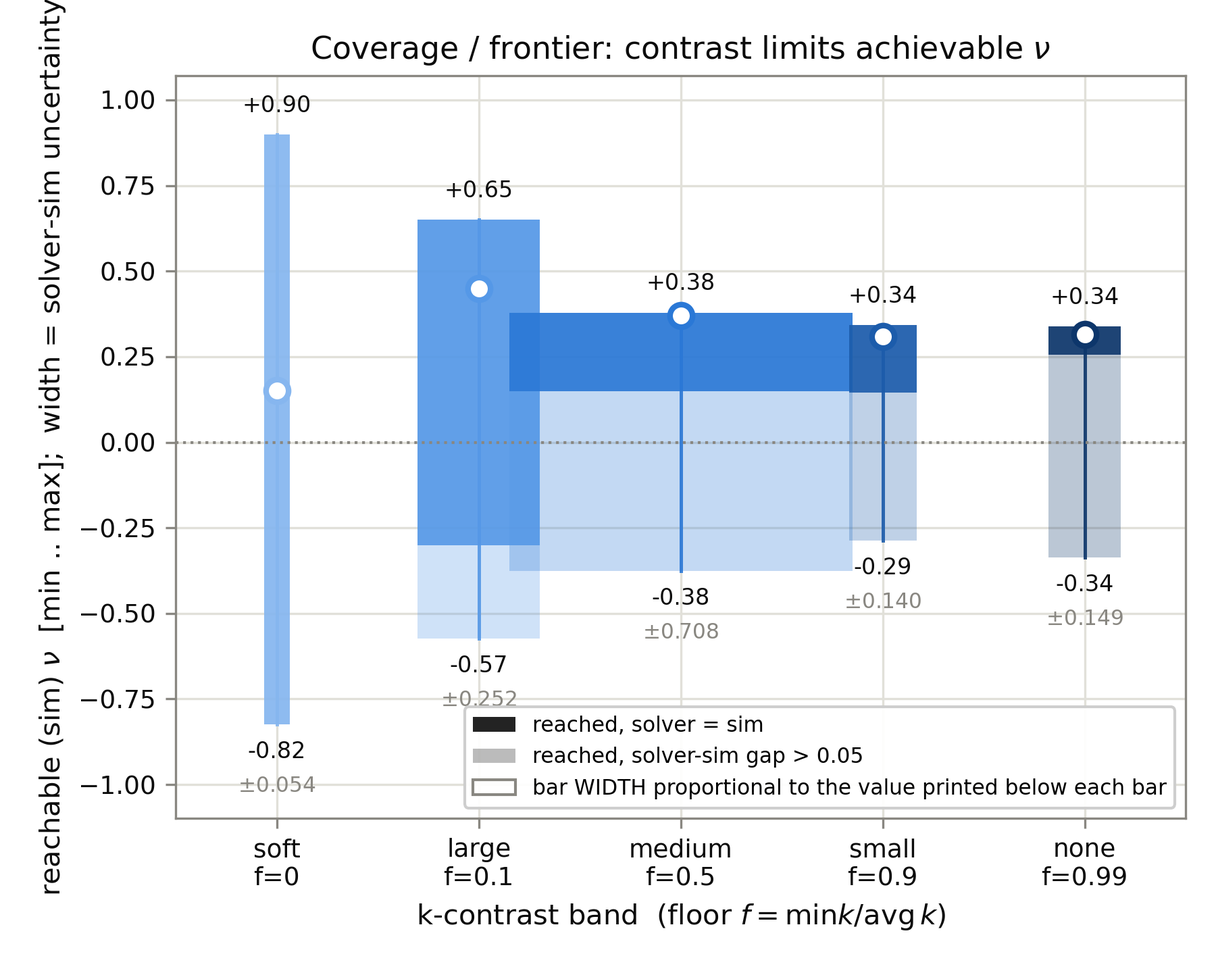
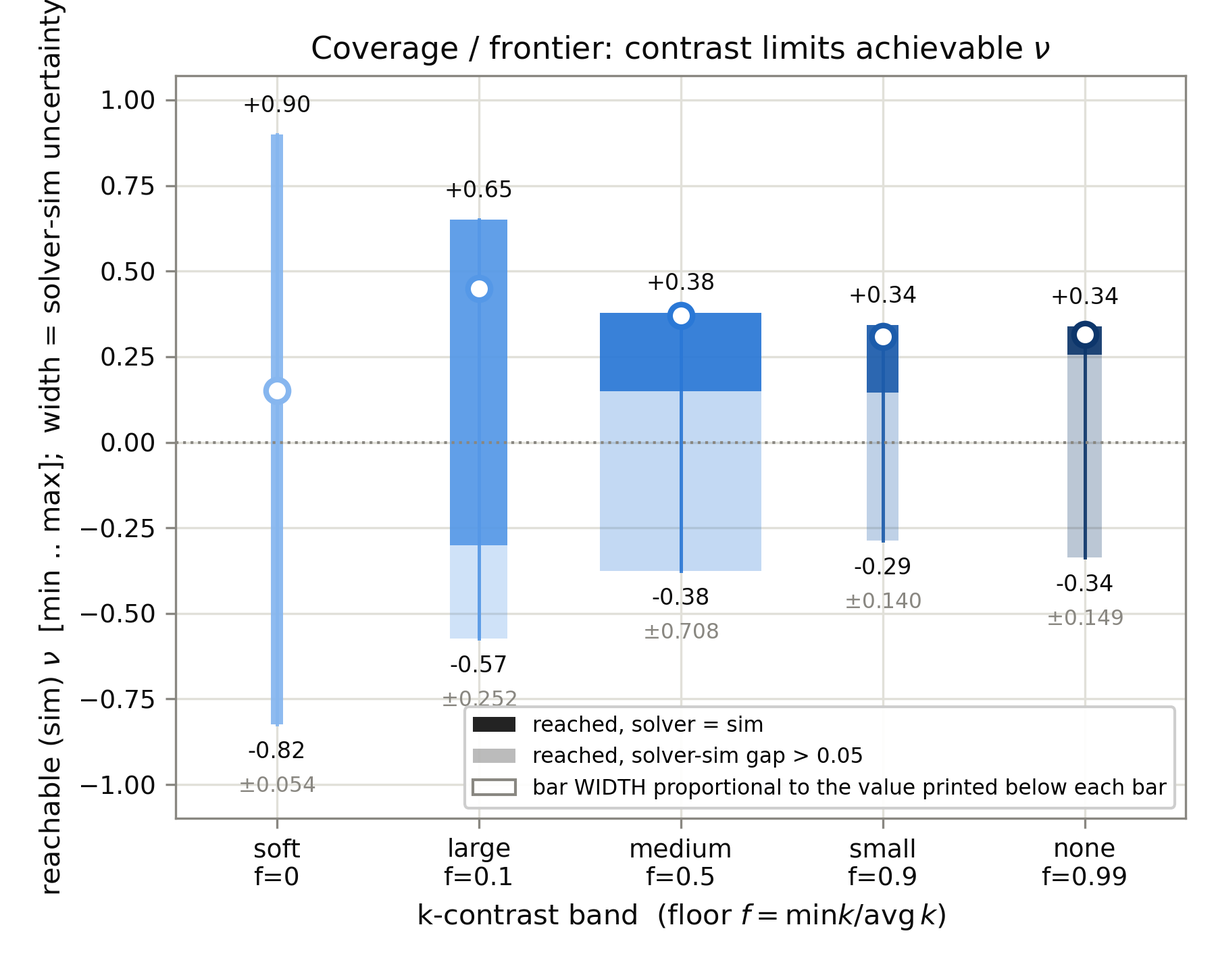
Session handoff: todo re-ordered around the GNN; audit mislabel #3 fixed
NEXT_SESSION.md rewritten as the master handoff, ordered by what must be true
before training M2 is worth doing:
  1. B-1 overnight -- THE BLOCKER. A solver that can differ from the sim by
     1.18e-02 on ~1 run in 21 labels the training set with noise of that size.
     Caught again today; the cheap harness does NOT reproduce it (new `threads`
     mode, 0/360 hits) and threading is not the direct cause (1.5e-33). Plan:
     full-suite loop overnight, paired 1-thread vs default, incremental writes.
  2. M2's two decisions (user's): what M2 IS -- CLAUDE.md says GNN edit-policy
     in four places, m2/model.py says forward surrogate -- and what it trains
     against (C6 vs nu(theta),E(theta); loss; validation on held-out FAMILIES
     against the sim, which M2.md records the July validation got wrong).
  3. M2 rebuild + retrain. Labels verified stale; dataset dirs deliberately absent.
  4. Deferred by decision: the tiling discrepancy (NO run-time guard), goal2's
     range, A-8 / A-17 tail / A-18, FD #2 redesign.

Also recorded: the session's corrections, the asymmetric-lever result (contrast
raises the ceiling, positions supply the floor), and the open tiling discrepancy
with the decisions taken around it -- tilings are legitimate networks, honouring
k0 is NOT the fix (soft chords carry the face's shear), a centre-vertex fan is a
better REPRESENTATION but not automatically a better network.

Honesty note carried into the handoff: the headline "filtering on trustworthy
[…]

diff --git a/Phase 5/verifications/plot_goal1.py b/Phase 5/verifications/plot_goal1.py
@@ -136,18 +136,25 @@ def fig_achieved(rows):
 # |nu_solver - nu_sim|, so a razor-thin bar means the two code paths agree and a fat bar means they
 # do not. Proportional (no offset) on purpose -- an offset would make "agrees exactly" look uncertain.
 # Median disagreement is 0.0000 in every band, which is why the MAX is the informative statistic.
-W_PER_NU = 2.4          # x-axis units per unit of |dnu|; band slots are 1.0 apart
-W_KEY = 0.10            # the reference width drawn in the legend, in |dnu|
+W_MAX_SLOT = 0.80       # the widest bar occupies this fraction of a band slot (slots are 1.0 apart)
+# The scale is ADAPTIVE, not a fixed units-per-dnu: it was hardcoded at 2.4, calibrated when the
+# worst band uncertainty was 0.311, and when the repaired position budget pushed that to 0.708 the
+# medium bar became 1.7 slots wide and overlapped its neighbours. Proportionality (a bar twice as
+# wide means twice the disagreement) is preserved within a figure; the absolute value is printed
+# under each bar, so nothing quantitative depends on the scale factor.
 
 
 def _frontier_axis(ax):
     rows = load_rows(trustworthy_only=False)
+    unc_max = max((max(abs(r['nu_sim_full'] - r['nu_solver_full'])
+                       for r in rows if r['band'] == bn)
+                   for bn in BAND_ORDER if any(r['band'] == bn for r in rows)), default=1.0) or 1.0
     for i, bn in enumerate(BAND_ORDER):
         g = [r for r in rows if r['band'] == bn]
         if not g:
             continue
         unc = max(abs(r['nu_sim_full'] - r['nu_solver_full']) for r in g)
-        w = W_PER_NU * unc
+        w = W_MAX_SLOT * unc / unc_max
         # Pale = full reach INCLUDING runs the honesty gate rejected; solid = trustworthy only.
         # Showing only the solid range is what made G1.2 read as "never reaches negative nu".
         nus_all = [r['nu_sim_full'] for r in g]

diff --git a/documentation/NEXT_SESSION.md b/documentation/NEXT_SESSION.md
@@ -1,168 +1,179 @@
 # NEXT SESSION — start here
 
-**Rewritten 2026-08-22.** Repo state: working tree clean, everything pushed through `612e8cf` on
-`claude/funny-davinci-H4pdS`, all five gates green. Read `CLAUDE.md` §1–3, this file,
-`documentation/VERIFICATION_CAMPAIGN.md` (**the index of what has already been measured — read it
-before proposing any new measurement**), then `AUDIT_2026-08.md` §6 STATUS for the audit backlog.
+**Rewritten 2026-08-22 (end of session).** Working tree clean, everything pushed on
+`claude/funny-davinci-H4pdS`. Read `CLAUDE.md` §1–3, this file, and
+**`documentation/VERIFICATION_CAMPAIGN.md` — the index of what has already been measured. Read it
+before proposing any new measurement.** `AUDIT_2026-08.md` §6 STATUS holds the older backlog.
+
+> **The goal is the GNN.** Everything below is ordered by what has to be true before training M2 is
+> worth doing. Item 1 is the only real blocker; items 2–3 are decisions only the user can make.
 
 ---
 
-## What changed on 2026-08-21/22, and why it matters
+## THE TODO, in order
 
-The session began as a conformance sweep and turned into a correction, after the user objected on
-physical grounds that η-disorder alone reaches ν < 0, so a directed optimiser must at least match it.
-He was right, and three layers of reporting said otherwise.
+### 1. B-1 — the overnight run. THE BLOCKER.
+Solver nondeterminism. **Why it gates the GNN:** if the solver can differ from the independent sim
+by 1.18e-02 on ~1 run in 21, a training set labelled by that solver carries unlabelled noise of the
+same size, and no amount of model capacity fixes that. M2's labels are only as good as this.
 
-**1. "Untrustworthy" is NOT "unreal" — the single most important thing to carry forward.**
-`trustworthy` is `gap = max_θ|Δν(θ)|/(|ν_sim(θ)|+0.05) + max_θ|ΔE(θ)|/|E_sim(θ)| < 0.05`: a
-**relative, PER-ANGLE agreement test between two code paths**, not a physicality verdict. Because the
-denominator carries a 0.05 floor it silently changes meaning — a ~5% relative test where |ν| ≫ 0.05,
-but an absolute |Δν| ≤ 0.0025 test where |ν| ≪ 0.05, i.e. ~20× stricter near ν = 0. Tabulating only
-gap-passing rows therefore **censors the extremes**, which is exactly what an inverse-design
-experiment exists to map. It made `g1_2` read as "distortion never reaches auxetic ν" when 49 designs
-reach ν < 0 with **49/49 sign agreement between the two codes**.
+**Caught again 2026-08-22** during a routine gate run: `test_homogenization`, regular lattice
+(φ=ψ=1, η=0, seed 0), **1.18e-02 against a 1.6e-12 baseline**, then 8/8 PASS on repeat in isolation.
+Evidence in `Phase 3/verifications/b1_dumps/` (harness auto-dump
+`b1_anomaly_20260822T142234Z_eta0.0_s0.json` + the suite log).
 
-**2. The selection rule was discarding good designs.** `run_g1_2.design_one` kept the
-closest-to-target *trustworthy* candidate and fell back to the lowest-gap one — which systematically
-preferred timid designs. It now scores `err + 0.5·gap` (`SCORE_LAMBDA`), the gap a **cost, not a
-veto**. Measured cause (`g1_2_triangular_start_probe.py`, 36 runs): the controlling variable is the
-SPSA **step size**. At `a = 0.15` the search barely moves and returns a *target-independent* endpoint
-— identical for ν* = −0.10 and −0.30, which is exactly the saved-data signature of one geometry
-written for all five negative targets; at `a = 0.25` it reaches ν = −0.134 with a larger gap, and the
-old rule threw that away.
+**Ruled out today:**
+- **The cheap harness does not reproduce it.** New `b1_reproduce.py threads N` mode: suite context
+  built once, then 360 probes across 1- and 4-thread arms → **0 hits in both**, every probe at
+  exactly 1.00× baseline. ~17 hits were expected at the nominal rate. So replaying the 13 preceding
+  tests is **not sufficient context** — consistent with "clusters in time with a persistent state
+  transition", and it means the "~1 in 21" refers to something other than these probes.
+- **Thread count is not the direct cause.** Threading *does* make the forward path nondeterministic
+  (40 calls on the regular lattice: 2 distinct bit patterns at 4 threads, 1 bit-exact at 1 thread —
+  isolated for the first time), but at **1.5e-33**, thirty orders below the failure, consistent with
+  the 1–2 ulp envelope already on record.
 
-**3. g1_2 re-run under the new rule: ALL TEN topologies reach auxetic ν.** `triangular` went
-**+0.038 → −0.217**, `flipped_tri_f8` −0.057 → −0.272, `tetrakis` −0.067 → −0.226,
-`rotating_squares` −0.259 → −0.398. Deepest overall −0.436 (honeycomb, solver −0.488) at k ≡ 1.
-Trustworthy count unchanged at 45/110 — the fix recovered *reach*, not agreement.
+**The plan (agreed):** an overnight loop of the **FULL suite** (`Phase 3/test_inverse_design.py`,
+~12 min/run), **paired 1-thread vs default** so the thread question is answered at the same time.
+~40 runs/night, ~2 expected events. **Write each run's verdict incrementally** — a suspend at hour
+six must not cost the night (one g1_2 design already recorded 18266 s from a machine suspend despite
+`_keep_awake`).
 
-**4. `positions.quality_floor` is ON at 1e-3**, set from the A/B its old default deferred to
-(`ab_quality_floor.py`, 40 runs). It is a **degeneracy guard only**: 1e-3 is free, 0.03+ doubles
-trustworthiness while multiplying median error ×17 and would destroy the ν = −0.436 design.
-**Do not raise it to buy agreement — that is the veto mistake one level down.**
+Useful control that fell out: `torch.set_num_threads(1)` makes the forward path bit-reproducible, so
+"noise or real state change?" becomes decidable.
+
+### 2. M2 — two decisions, then it is unblocked
+- **What M2 IS.** `CLAUDE.md` calls it a GNN **edit-policy** in four places (§1 twice, the
+  entry-point line, §2's table); `Phase 5/m2/model.py` says **forward surrogate**. A straight
+  docs-vs-code contradiction, deliberately left for the user. It decides the dataset, the loss and
+  the success criterion, so it comes first.
+- **What it trains against.** Graph → C6 (6 numbers) as now, or graph → ν(θ),E(θ) on the 37-angle
+  grid; loss on raw C6 / normalised components / derived ν,E; success measured against the
+  **independent sim on held-out topology FAMILIES**, which `M2.md` records the July validation got
+  wrong (random split against the solver labels the model trained on).
+
+### 3. M2 — rebuild, retrain, validate
+Labels are **verified stale** (37/41 drift, worst |Δν| = 1.73), so `checkpoint.pt` is unverified.
+`Phase 5/dataset/` and `m2/data/` are deliberately ABSENT so nothing retrains on the old labels; the
+July set is archived at `validation_2026-08/attic/m2_dataset_2026-07_pre-A0/`. Record the smoke-train
+metrics this time (`M2.md` still has `<FILL>`).
+
+**Today's work substantially improves what a dataset must cover** — see
+`Phase 5/results/reach_summary/REACH_SUMMARY.md` for the reachable envelope on one axis.
+
+### 4. Deferred, deliberately
+- **The tiling discrepancy — LEFT AS IS, no run-time guard** (user's call, 2026-08-22). See below.
+- goal2 over its full target range — its target set has never been scoped (directional/full-tensor).
+- `A-8` open-boundary suite · `A-17` tail (centre-vertex re-representation) · `A-18` analytic-oracle
+  generalisation · TODO 2.6 `open_stretch` guard.
+- **FD #2 needs redesign, not re-aiming** — both proposed targets measured insufficient (below).
+
+---
+
+## What changed on 2026-08-21/22
+
+**1. "Untrustworthy" is NOT "unreal".** `trustworthy` is
+`gap = max_θ|Δν(θ)|/(|ν_sim(θ)|+0.05) + max_θ|ΔE(θ)|/|E_sim(θ)| < 0.05` — a **relative, PER-ANGLE
+agreement test between two code paths**, not a physicality verdict. The +0.05 floor makes it a ~5%
+relative test where |ν| ≫ 0.05 but an absolute |Δν| ≤ 0.0025 where |ν| ≪ 0.05, ~20× stricter near
+zero. Tabulating only gap-passing rows **censors the extremes**.
+
+> **Not a new observation.** `AUDIT_2026-08.md` already recorded for `g1_2_freed` that the optimiser
+> "claims ν down to −0.761 over all 110 runs" while the trustworthy subset gives [+0.100, +0.340].
+> Today added the *interpretation*: those designs are **49/49 sign-agreeing** between the two codes
+> (median bulk |Δν| = 0.073), so they are not "a near-mechanism regime the sim rejects" as the audit
+> concluded — they are designs both codes broadly agree about that fail a strict per-angle
+> tolerance. And the fix below.
+
+**2. Selection is SCORED, not vetoed** — in **both** `run_g1_2.design_one` and `designer.design()`:
+`err + 0.5·gap`, with PHYSICALITY still a veto (non-SPD / non-finite / |ν|≥ν_max is a statement about
+the network, audit A-5). `gap_tol` now only sets the reported `trustworthy` flag.
+Measured cause of the old rule's damage: the **SPSA step size**. At `a = 0.15` the search barely
+moves and returns a *target-independent* endpoint; at `a = 0.25` it reaches ν = −0.134 with a larger
+gap, and the veto discarded it.
+
+**3. g1_2 re-run: ALL TEN topologies reach auxetic ν.** `triangular` +0.038 → **−0.217**,
+`flipped_tri_f8` −0.057 → −0.272, `tetrakis` −0.067 → −0.226, `rotating_squares` −0.259 → −0.398.
+Deepest −0.436 (honeycomb, solver −0.488) at k ≡ 1. Trustworthy unchanged at 45/110 — the fix
+recovered *reach*, not agreement.
+
+**4. goal1: symmetric grid + repaired position budget → a conclusion overturned.** `NU_GRID` is now
+13 points over [−0.95, +0.95]; `design_iso` now passes `spsa_a = 0.25` instead of falling through to
+the library default 0.02 (travel per coordinate **0.202 → 2.53** lattice spacings, matching g1_2, at
+the same step count and runtime). Result: **every contrast band reaches ν < 0**, including f = 0.99
+at −0.336. So "forbid contrast and the design space collapses onto +1/3" was a **search artefact**.
+
+> **Corrected physics:** the lever is **asymmetric**. **Contrast raises the CEILING** (+0.34 at
+> f = 0.99 vs +0.90 at f = 0 — geometry cannot push ν above the uniform-lattice value). **Positions
+> supply the FLOOR** (−0.29 … −0.34 at every band; −0.436 in g1_2 at k ≡ 1). At f = 0.99 the window
+> is [−0.336, +0.338] — near-symmetric, ≈ ±1/3, *not* a point near +1/3.
+
+Median |err| **0.198 → 0.0063**, success 33 % → 55 %. Cost: trustworthy 114 → 67 (bigger moves, more
+disagreement). `quality_floor` also enabled at **1e-3** from its A/B — a degeneracy guard only;
+**never raise it to buy agreement** (0.03+ multiplies median error ×17 and would destroy the −0.436
+design).
 
 **5. A(s) conditioning is not the whole story.** `rcond(A(s))` alone does **not** predict solver
 error: on the hexagon closed form, driving `A(s)` to numerical rank-1 with soft spokes *improves*
-accuracy by six orders (corr **+0.73**, best accuracy at worst conditioning). Soft k is benign;
-**dead** k and **slivers** are not. In `g1_2` (k ≡ 1, purely geometric) the sliver route is confirmed
-hard (`quality_p05` corr −0.86), but **goal1's worst disagreement, |Δν| = 0.311, is healthy on every
-axis** — conditioning, shape quality and k-contrast. At least two failure modes; FD #2 addresses one.
-
-**5b. `designer.design()` is now consistent with `run_g1_2`** (2026-08-22): PHYSICALITY vetoes,
-the gap is a **cost** in the ranking score, and the position polish accepts on the score. Physicality
-stays a veto because non-SPD / non-finite / |ν|≥ν_max is a statement about the network (audit A-5).
+accuracy by six orders (corr **+0.73**, best accuracy at worst conditioning). SOFT k is benign;
+**DEAD** k and **slivers** are not — `CLAUDE.md` §3 now separates them. In `g1_2` (k ≡ 1, purely
+geometric) the sliver route is confirmed hard (`quality_p05` corr −0.86, and the **tail** predicts
+better than the worst triangle).
 
 **6. A THIRD verification path already exists** — `test_hex_closed_form.py` is analytic and
-independent of both solver and sim (4.4e-06). A-18 *generalises* it; it is not the first.
+independent of both solver and sim (4.4e-06). **A-18 generalises it; it is not the first.**
+
+**7. New instruments:** `plotting.plot_ranges` (reach intervals; pale = full reach, solid = agreeing
+sub-range, filled/hollow markers), `Phase 5/results/reach_summary/` (every ν achieved, on one axis),
+`conditioning_probe.py`, `hex_conditioning_check.py`, `g1_2_solver_recheck.py`,
+`g1_2_triangular_start_probe.py`, `b1_reproduce.py threads`.
 
 ---
 
-## What to do next
+## The discrepancy we are LEAVING OPEN (user's call)
 
-### Highest value
-1. **goal2 over its full target range — goal1 is DONE.** goal1 was re-run 2026-08-22 on a symmetric
-   13-point grid over [−0.95, +0.95] (130 runs, 114 trustworthy): at f=0 it now reaches
-   **[−0.825, +0.901]**, most of the physical range, and `goal1_frontier` is subsumed (it survives as
-   an independent cross-check: +0.63 vs +0.658 for the f=0.1 frontier). **goal2's target set has NOT
-   been scoped** — it is directional/full-tensor, so "the full range" means something different there
-   and needs a look before a grid can be proposed.
-   `Phase 5/results/reach_summary/REACH_SUMMARY.md` has the whole picture on one axis.
-   *(Note `run_goal1` never vetoed on the gap, so unlike g1_2 its reach was never censored — an
-   earlier claim here said otherwise and was wrong.)*
-3. **B-1** — solver nondeterminism, ~1 run in 21, up to 6 %. Still the only correctness blocker.
-   **CAUGHT AGAIN 2026-08-22** during a routine gate run: `test_homogenization`, regular lattice
-   (φ=ψ=1, η=0, seed 0), **1.18e-02 against a 1.6e-12 baseline** — then 8/8 PASS on repeat in
-   isolation. Evidence: `Phase 3/verifications/b1_dumps/` (the harness auto-dumped
-   `b1_anomaly_20260822T142234Z_eta0.0_s0.json`, plus the suite log).
+`tiling_honeycomb_r3` — a 36-node chord-triangulated honeycomb — is the worst solver-vs-sim
+disagreement in every goal1 run: **0.311 → 0.323 → 0.708** as the position budget grew. It is **one
+deterministic network recurring**, not three independent samples (the tiling pool is fixed and each
+topology appears once per sweep) — an earlier version of this file overstated it.
 
-   **Two things measured while chasing it, both new:**
-   - **Thread count causes run-to-run nondeterminism — isolated for the first time.** 40 identical
-     `forward()` calls on the regular lattice: at `torch.set_num_threads(4)` → **2 distinct bit
-     patterns**; at 1 thread → **1, bit-exact**. `b1_reproduce.py` *records* the thread count
-     (`fingerprint`) but no mode ever *varies* it, so this was untested.
-   - **But it cannot be the direct cause:** the variation is **1.5e-33** against a 1.18e-02 failure —
-     thirty orders apart, consistent with the 1–2 ulp envelope already on record. Reduction order
-     alone does not do it; whether it can *seed* a divergence through an unstable branch is untested
-     speculation.
+The 08-18 instance was **healthy on every axis** (`rcond_min` 5e-03, shape quality 0.475 ≈ 20°,
+`k_min/mean` 0.65), so neither §3 route explains it. The current 0.708 instance has **not** been
+re-measured. The live hypothesis (the user's) is that **position optimisation degrades the
+geometry**, hardest where k is constrained but the target still looks chaseable — which fits the
+disagreement more than doubling when travel went 13×, and fits the worst case sitting in `medium`
+rather than at extreme ν.
 
-   **Useful control that falls out of this:** `torch.set_num_threads(1)` makes the forward path
-   bit-reproducible, which turns "is this run-to-run noise or a real state change?" into a decidable
-   question.
-
-   **`threads` mode added and RUN — came back EMPTY, which is itself informative.**
-   `b1_reproduce.py threads 60`: suite context built once, then 60 probes x 3 cases per arm at 1 and
-   4 threads. **0/180 hits in BOTH arms**, every probe at exactly 1.00x baseline
-   (`b1_dumps/2026-08-22_threads_mode_360probes_empty.log`).
-   - Threading is not implicated *at this sample size* — but that is weak, because
-   - **the cheap harness does not reproduce the phenomenon at all.** ~360 samples against a nominal
-     1-in-21 rate should have produced ~17 hits. Zero. So **rebuilding context by replaying the 13
-     preceding tests is NOT sufficient** to produce the excursion — which fits the documented
-     "clusters in time with a persistent state transition": the transition has to *happen*, and a
-     replay does not trigger it. It also suggests the "~1 in 21" on record refers to something other
-     than these probes.
-   - Incidental: in suite context 1 thread gave MORE distinct bit patterns (3) than 4 threads (2),
-     contradicting the isolated 40-run test where 1 thread was bit-exact. Do not over-read either.
-
-   **So the route is the expensive one:** an overnight loop of the FULL suite
-   (`Phase 3/test_inverse_design.py`, ~12 min/run), ideally paired 1-thread vs default so the thread
-   question is answered at the same time. ~40 runs a night, ~2 expected events at the observed rate.
-4. **M2 rebuild + retrain** — parked by request. Labels verified stale (37/41 drift, worst |Δν| 1.73),
-   so `checkpoint.pt` is unverified. Two questions before any training: **what M2 is meant to be**
-   (CLAUDE.md calls it a GNN *edit-policy* in four places while `m2/model.py` says *forward
-   surrogate* — an unresolved docs-vs-code contradiction, deliberately left for the user to settle),
-   and what the training target and success criterion are.
-
-2. ~~goal1's position budget is effectively zero~~ **FIXED AND RE-RUN 2026-08-22.**
-   `design_iso` had called `spsa_positions` without passing `a`/`c`, so positions ran at the library
-   defaults: **0.202** lattice spacings of travel against g1_2's 2.68. Now `spsa_a = 0.25` (travel
-   **2.53**, same step count, same runtime — travel scales linearly in `a`).
-   **The result overturned a conclusion.** Every contrast band now reaches ν < 0, including f = 0.99
-   at **−0.336**, where k is effectively frozen. So "forbid contrast and the design space collapses
-   onto +1/3" was a *search* artefact. The corrected physics is asymmetric:
-   **contrast raises the CEILING (+0.34 at f=0.99 vs +0.90 at f=0); positions supply the FLOOR
-   (−0.29 … −0.34 at every band, −0.436 in g1_2 at k ≡ 1).**
-   Target accuracy improved with it: median |err| **0.198 → 0.0063**, success 33 % → 55 %.
-   Cost: trustworthy 114 → 67 — bigger position moves, more solver-sim disagreement.
-
-### Also open
-- ~~`designer.design()`'s safety gate still vetoes~~ **DONE 2026-08-22** — it now filters on
-  PHYSICALITY only and ranks by `target_err_sim + 0.5·solver_sim_gap`; the position polish accepts on
-  the score rather than on `gap_tol`. `gap_tol` sets only the reported `trustworthy` flag. Verified:
-  designer gate 5/5 plus an end-to-end smoke keeping two `trustworthy=False` designs ranked by score.
-- **goal1's unexplained disagreement — THREE independent reproductions; the best open lead.**
-  |Δν| = 0.311 at ν=+0.286 (08-18, asymmetric grid) → **0.323 at ν=+0.296** (08-22, symmetric grid)
-  → **0.708 at ν=+0.306** (08-22, symmetric grid + 13× position budget). **`tiling`, `medium` band
-  (f=0.5), ν ≈ +0.30 every time**, across different grids, independently drawn topologies and a large
-  change in search budget. Meanwhile the `soft` band spans [−0.82, +0.90] with a worst case of **0.0068** —
-  **50× better while reaching 10× further**, so extreme ν is NOT where the codes disagree. The old
-  instance was healthy on every conditioning axis (rcond 5e-03, quality 0.475, k_min/mean 0.65), so
-  neither §3 route applies. Suspect |W| — but note the prior art:
-  `verification_tools/plots/per_triangle_C/PER_TRIANGLE_C.md` already measures corr(|ΔC|, ‖W‖) = +0.39
-  for the *contraction-isolation* residual, which is not the same quantity as end-to-end disagreement.
-  **Start here: a `tiling` cell at f=0.5 targeting ν ≈ +0.29 is a reproducible instance to dissect.**
-- **FD #2 needs redesign, not re-aiming** — both proposed targets are now measured insufficient.
-- A-8 open-boundary suite · A-17 tail · A-18 generalisation · TODO 2.6 `open_stretch` guard.
+**Decisions taken:** the tilings are **legitimate networks** — chord triangulation with all edges at
+designed k is a real spring network, just not the tiling it is named after. **Honouring `k0` is NOT
+the fix** (soft chords carry the face's shear, so it would only make everything near-mechanism). A
+centre-vertex fan would be a better *representation of a honeycomb* (what A-17's tail and the hexagon
+gate use) but is not automatically a better network. **No run-time geometry guard is being added.**
+Note `run_goal1`'s CSV records `kmin_avg` and `solver_sim_gap` but **no geometry health**, so this is
+not answerable from the results without recomputing.
 
 ---
 
 ## Things not to re-learn the hard way
 
-- **Check `VERIFICATION_CAMPAIGN.md` and `verification_tools/README.md` before proposing a new
-  measurement.** Twice this session I proposed analyses that already existed — the per-triangle
-  localisation *with a ‖W‖ field*, and the sliver-vs-gap correlations (already sitting in
-  `positions.tri_shape_quality`'s docstring). Both were indexed. CLAUDE.md §3 now carries this rule.
-- **A re-run must be closed under producer→consumer.** The 08-18 re-run re-ran the producers and never
-  the plotters, so goal1/g1_2 figures were July while their data was August, and both results docs
-  quoted July numbers (100/110 vs 93/110; 52 vs 45).
-- **Look at the rendered figure.** Five plotter defects this session were found by eye and none by an
-  exit code: a dropped topology (`TOPO_ORDER` still naming a removed tiling, hiding `flipped_tri_f14`
-  from every g1_2 figure), missing legend entries, a legend covering data, a `$\nu$` title that
-  rendered as a literal newline, and a marker encoding in which filled and hollow were
-  indistinguishable because the fill matched the bar beneath it.
-- **An edit whose assertion fails can still get committed.** `eb0b8b8` claimed a CLAUDE.md change that
-  had not landed; `612e8cf` corrected it. Verify the edit took before describing it.
-- **Wall-clock timings in logs may be fiction.** One g1_2 design recorded 18266 s because the machine
-  suspended mid-run despite `_keep_awake`; that run's "431.9 min" total is meaningless (real ≈ 2.4 h).
-- **ν < 0 is reached and sim-confirmed** in `auxetic_sweep` (36/70 rows below −0.05, to −0.6009),
-  `g1_2` (49 designs, 49/49 sign-agreeing, to −0.436) and goal1 f=0 (−0.825). Any future claim that
-  some setup "cannot reach negative ν" should be checked against these before it is written down.
+- **The project keeps re-deriving what it already knows**, because findings live in prose spread over
+  a 1300-line audit and a dozen results docs rather than in the data. Three times in one session I
+  proposed analyses that already existed (per-triangle localisation *with a ‖W‖ field*; the
+  sliver-vs-gap correlations in `positions.tri_shape_quality`'s docstring; the `ab_quality_floor`
+  trade-off). **Check `VERIFICATION_CAMPAIGN.md` and `verification_tools/README.md` first, and say
+  what you found.** That rule is in `CLAUDE.md` §3 — but it indexes *scripts*, not findings.
+- **Read reach over ALL runs, never the trustworthy subset.** This concealed a real result four
+  separate times, including in `run_goal1`'s own printed summary, which would have reported
+  "medium: [+0.15, +0.38]" and hidden the −0.377.
+- **`ab_quality_floor` is a SHAPE floor, not a stiffness floor.** The mislabel was in three places
+  (its results doc, FD #2, and the audit) — all now corrected.
+- **A re-run must be closed under producer→consumer.** The 08-18 re-run ran the producers, never the
+  plotters, so figures and docs quoted July numbers over August data.
+- **Look at the rendered figure.** Six plotter defects this session were found by eye, none by an
+  exit code — a dropped topology, missing legend entries, a legend covering data, a `$\nu$` title
+  rendering as a newline, filled/hollow markers indistinguishable against their own bar, and bars
+  1.7 slots wide after a scale went stale.
+- **An edit whose assertion fails can still get committed** (`eb0b8b8` → corrected by `612e8cf`).
+- **Wall-clock timings in logs may be fiction** — one design recorded 18266 s from a machine suspend.
+- **ν < 0 is reached and sim-confirmed** in `auxetic_sweep` (to −0.6009), `g1_2` (49 designs, 49/49
+  sign-agreeing, to −0.436) and goal1 (to −0.82 at f = 0, and ν < 0 at *every* contrast band).

diff --git a/documentation/AUDIT_2026-08.md b/documentation/AUDIT_2026-08.md
@@ -944,11 +944,16 @@ Two of them turned up results worth having in the register:
   **33 trustworthy** ones the reachable set is **[+0.100, +0.340]**, the same positive-only window
   `run_g1_2` reports *with* bracing. Two experiments, opposite setups, same conclusion: in this
   family ν<0 is reachable only inside the near-mechanism regime the sim rejects.
-- **`ab_quality_floor` quantifies the honesty/accuracy trade-off of a stiffness floor.** Raising the
-  floor 0 → 0.05 nearly halves the median solver-sim gap (0.66 → 0.37) while median |err| rises
+- **`ab_quality_floor` quantifies the honesty/accuracy trade-off of a per-triangle SHAPE floor**
+  (*corrected 2026-08-22: this entry said "stiffness floor" — the third copy of that mislabel, after
+  the experiment's own results doc and FUTURE_DIRECTIONS #2. It injects
+  `positions.spsa_positions(quality_floor=...)`; no k floor is involved*). Raising the floor
+  0 → 0.05 nearly halves the median solver-sim gap (0.66 → 0.37) while median |err| rises
   0.19 → 0.29; past 0.05 the gap stops improving but the error keeps rising, so **0.05 is the knee**.
-  *Caveat now recorded: even at the knee the median gap is 0.37, far above the 0.05 tolerance — the
-  floor mitigates the dishonesty, it does not remove it.*
+  *Caveat: even at the knee the median gap is 0.37, far above the 0.05 tolerance — the floor
+  mitigates the dishonesty, it does not remove it.* **Re-run 2026-08-22** under the scored selection
+  with arms at 0.001/0.01 added: same qualitative verdict, and `quality_floor` now defaults to
+  **1e-3** as a degeneracy guard only (free; 0.03+ multiplies median error ×17).
 
 **C-1 · original entry · experiments without a results doc.** `Phase 5/results/reentrant/` holds three
 figures and no `.md`; `run_anisotropic*.py`, `dhex_family.py`, `reentrant_*.py`,
